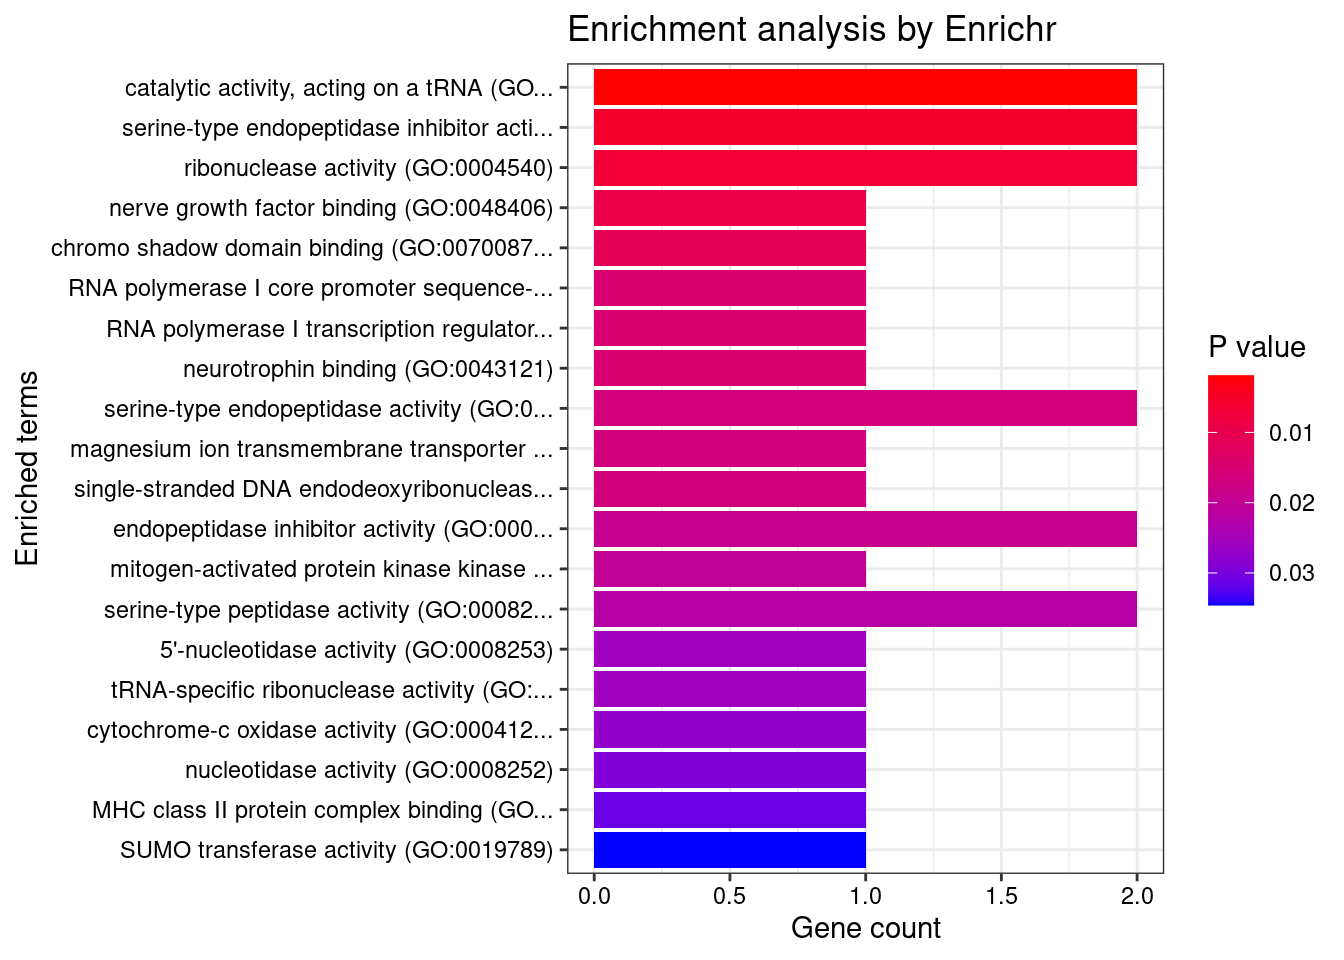
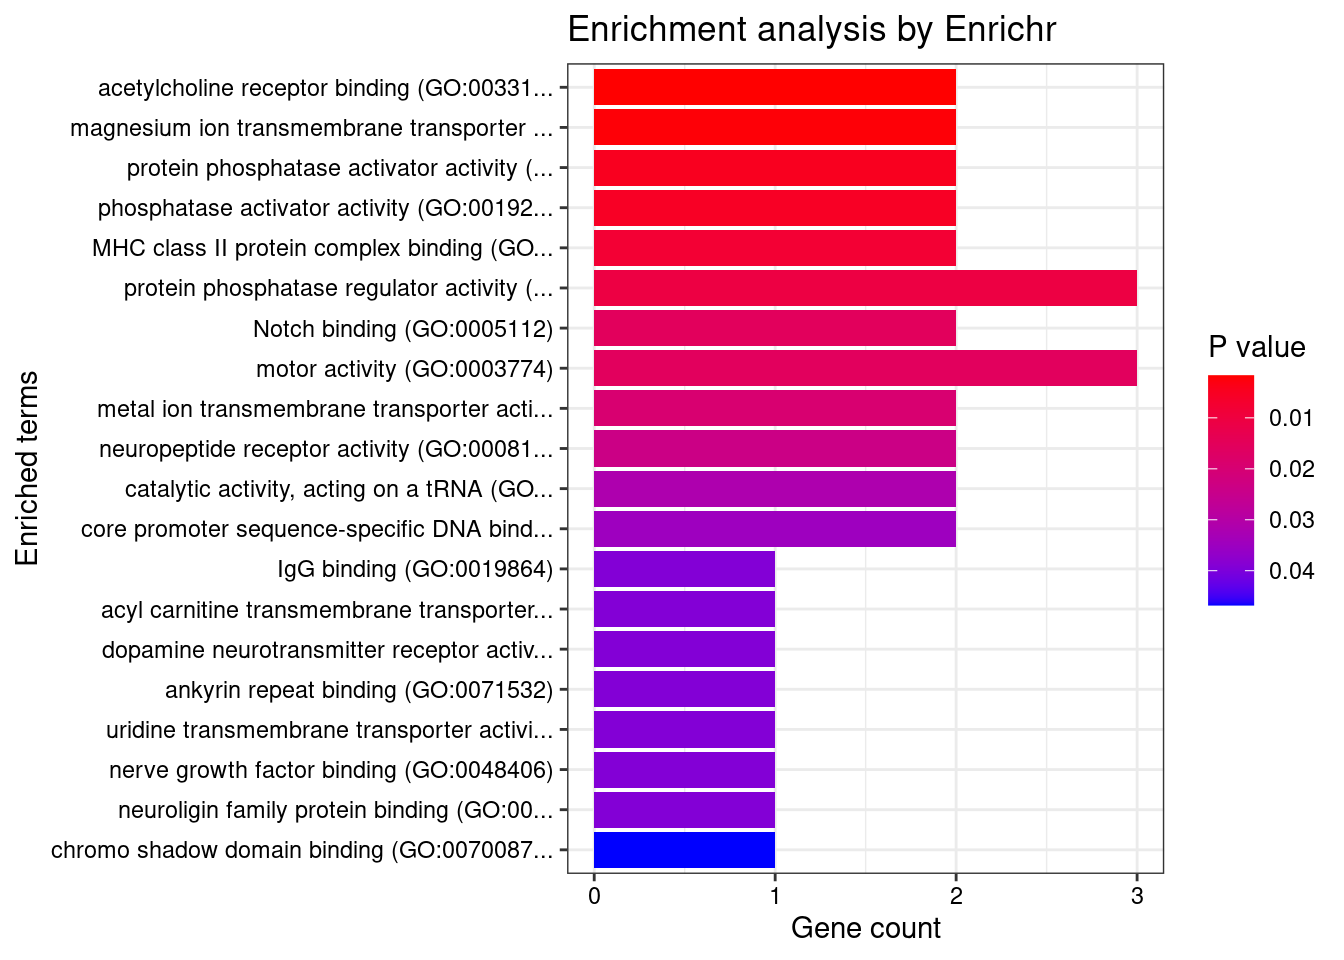
update

diff --git a/docs/SCZ_Annotation_Analysis.html b/docs/SCZ_Annotation_Analysis.html
@@ -499,16 +499,16 @@ data/SCZ_2014_EUR
 <div class="panel panel-default">
 <div class="panel-heading">
 <p class="panel-title">
-<a data-toggle="collapse" data-parent="#workflowr-checks" href="#strongRepositoryversionstrongahrefhttpsgithubcomsq96cTWASanalysistree9ddc9c43289519afecd05bdf0af20b8c7dce3423targetblank9ddc9c4a"> <span class="glyphicon glyphicon-ok text-success" aria-hidden="true"></span> <strong>Repository version:</strong> <a href="https://github.com/sq-96/cTWAS_analysis/tree/9ddc9c43289519afecd05bdf0af20b8c7dce3423" target="_blank">9ddc9c4</a> </a>
+<a data-toggle="collapse" data-parent="#workflowr-checks" href="#strongRepositoryversionstrongahrefhttpsgithubcomsq96cTWASanalysistree0552ba2bf4d6456fb9b0087f6c077c0a7cd6720dtargetblank0552ba2a"> <span class="glyphicon glyphicon-ok text-success" aria-hidden="true"></span> <strong>Repository version:</strong> <a href="https://github.com/sq-96/cTWAS_analysis/tree/0552ba2bf4d6456fb9b0087f6c077c0a7cd6720d" target="_blank">0552ba2</a> </a>
 </p>
 </div>
[2 lines of base64/hex data omitted]
 <div class="panel-body">
 <p>
 Great! You are using Git for version control. Tracking code development and connecting the code version to the results is critical for reproducibility.
 </p>
 <p>
-The results in this page were generated with repository version <a href="https://github.com/sq-96/cTWAS_analysis/tree/9ddc9c43289519afecd05bdf0af20b8c7dce3423" target="_blank">9ddc9c4</a>. See the <em>Past versions</em> tab to see a history of the changes made to the R Markdown and HTML files.
+The results in this page were generated with repository version <a href="https://github.com/sq-96/cTWAS_analysis/tree/0552ba2bf4d6456fb9b0087f6c077c0a7cd6720d" target="_blank">0552ba2</a>. See the <em>Past versions</em> tab to see a history of the changes made to the R Markdown and HTML files.
 </p>
 <p>
 Note that you need to be careful to ensure that all relevant files for the analysis have been committed to Git prior to generating the results (you can use <code>wflow_publish</code> or <code>wflow_git_commit</code>). workflowr only checks the R Markdown file, but you know if there are other scripts or data files that it depends on. Below is the status of the Git repository when the results were generated:
@@ -516,7 +516,6 @@ Note that you need to be careful to ensure that all relevant files for the analy
 <pre><code>
 Ignored files:
     Ignored:    .ipynb_checkpoints/
-    Ignored:    analysis/figure/
     Ignored:    data/AF/
 
 Untracked files:
@@ -609,7 +608,6 @@ Untracked files:
 
 Unstaged changes:
     Modified:   analysis/SCZ_Annotation_Analysis.Rmd
-    Modified:   analysis/index.Rmd
 
 </code></pre>
 <p>
@@ -648,6 +646,40 @@ Message
 </tr>
 </thead>
 <tbody>
+<tr>
+<td>
+Rmd
+</td>
+<td>
+<a href="https://github.com/sq-96/cTWAS_analysis/blob/0552ba2bf4d6456fb9b0087f6c077c0a7cd6720d/analysis/SCZ_Annotation_Analysis.Rmd" target="_blank">0552ba2</a>
+</td>
+<td>
+sq-96
+</td>
+<td>
+2022-04-18
+</td>
+<td>
+update
+</td>
+</tr>
+<tr>
+<td>
+html
+</td>
+<td>
+<a href="https://rawcdn.githack.com/sq-96/cTWAS_analysis/0552ba2bf4d6456fb9b0087f6c077c0a7cd6720d/docs/SCZ_Annotation_Analysis.html" target="_blank">0552ba2</a>
+</td>
+<td>
+sq-96
+</td>
+<td>
+2022-04-18
+</td>
+<td>
+update
+</td>
+</tr>
 <tr>
 <td>
 Rmd
@@ -695,7 +727,7 @@ all_genes &lt;- c()
 for(i in brain_tissue){
   df &lt;- readRDS(paste0(&quot;/project2/xinhe/shengqian/cTWAS/cTWAS_analysis/data/SCZ_2014_EUR/&quot;,i,&quot;/SCZ_&quot;,i,&quot;_ctwas_gene_res.RDS&quot;))
   all_genes &lt;- c(all_genes,df$genename)
-  df &lt;- df[df$susie_pip&gt;=0.8,]
+  df &lt;- df[df$susie_pip&gt;=0.5,]
   top_genes &lt;- c(top_genes,df$genename)
 }
 top_genes &lt;- unique(top_genes)
@@ -728,15 +760,15 @@ SMR_genes &lt;- Supplementary_Table_20_Prioritised_Genes[,c(&quot;Symbol.ID&quot
 SMR_genes[&quot;index&quot;] &lt;- (SMR_genes$SMRmap==1) | (SMR_genes$SMRsingleGene==1) | (SMR_genes$HI.C.SMR==1)
 SMR_genes &lt;- SMR_genes[SMR_genes$index==1,]$Symbol.ID</code></pre>
 <pre class="r"><code>sum(top_genes %in% SCHEMA_genes)</code></pre>
-<pre><code>[1] 1</code></pre>
+<pre><code>[1] 2</code></pre>
 <pre class="r"><code>sum(top_genes %in% ASD_genes)</code></pre>
-<pre><code>[1] 0</code></pre>
-<pre class="r"><code>sum(top_genes %in% DDD_genes)</code></pre>
 <pre><code>[1] 1</code></pre>
-<pre class="r"><code>sum(top_genes %in% PGC3_genes)</code></pre>
+<pre class="r"><code>sum(top_genes %in% DDD_genes)</code></pre>
 <pre><code>[1] 5</code></pre>
+<pre class="r"><code>sum(top_genes %in% PGC3_genes)</code></pre>
+<pre><code>[1] 9</code></pre>
 <pre class="r"><code>sum(top_genes %in% setdiff(PGC3_genes,SMR_genes))</code></pre>
-<pre><code>[1] 0</code></pre>
+<pre><code>[1] 1</code></pre>
 <pre class="r"><code>sum(random_genes %in% SCHEMA_genes)</code></pre>
 <pre><code>[1] 3</code></pre>
 <pre class="r"><code>sum(random_genes %in% ASD_genes)</code></pre>
@@ -752,13 +784,13 @@ SMR_genes &lt;- SMR_genes[SMR_genes$index==1,]$Symbol.ID</code></pre>
     Fisher&#39;s Exact Test for Count Data
 
 data:  
-p-value = 0.1354
+p-value = 0.1413
 alternative hypothesis: true odds ratio is not equal to 1
 95 percent confidence interval:
-   0.1711393 117.4160714
+  0.350347 37.179757
 sample estimates:
 odds ratio 
-  9.175783 </code></pre>
+  4.225739 </code></pre>
 <pre class="r"><code>fisher.test(matrix(c(sum(top_genes %in% ASD_genes),length(top_genes)-sum(top_genes %in% ASD_genes),sum(random_genes %in% ASD_genes),1000-sum(random_genes %in% ASD_genes)),ncol=2))</code></pre>
 <pre><code>
     Fisher&#39;s Exact Test for Count Data
@@ -767,46 +799,46 @@ data:
 p-value = 1
 alternative hypothesis: true odds ratio is not equal to 1
 95 percent confidence interval:
-  0.00000 19.30366
+ 0.01979746 7.06655191
 sample estimates:
 odds ratio 
-         0 </code></pre>
+  0.897886 </code></pre>
 <pre class="r"><code>fisher.test(matrix(c(sum(top_genes %in% DDD_genes),length(top_genes)-sum(top_genes %in% DDD_genes),sum(random_genes %in% DDD_genes),1000-sum(random_genes %in% DDD_genes)),ncol=2))</code></pre>
 <pre><code>
     Fisher&#39;s Exact Test for Count Data
 
 data:  
-p-value = 0.4223
+p-value = 0.1657
 alternative hypothesis: true odds ratio is not equal to 1
 95 percent confidence interval:
-  0.04503188 13.53902640
+ 0.6348484 6.8334851
 sample estimates:
 odds ratio 
-  1.954633 </code></pre>
+  2.284503 </code></pre>
 <pre class="r"><code>fisher.test(matrix(c(sum(top_genes %in% PGC3_genes),length(top_genes)-sum(top_genes %in% PGC3_genes),sum(random_genes %in% PGC3_genes),1000-sum(random_genes %in% PGC3_genes)),ncol=2))</code></pre>
 <pre><code>
     Fisher&#39;s Exact Test for Count Data
 
 data:  
-p-value = 1.739e-05
+p-value = 3.34e-05
 alternative hypothesis: true odds ratio is not equal to 1
 95 percent confidence interval:
-   5.852185 106.928166
+  3.09800 34.34657
 sample estimates:
 odds ratio 
-  25.56233 </code></pre>
+  9.904212 </code></pre>
 <pre class="r"><code>fisher.test(matrix(c(sum(top_genes %in% setdiff(PGC3_genes,SMR_genes)),length(top_genes)-sum(top_genes %in% setdiff(PGC3_genes,SMR_genes)),sum(random_genes %in% setdiff(PGC3_genes,SMR_genes)),1000-sum(random_genes %in% setdiff(PGC3_genes,SMR_genes))),ncol=2))</code></pre>
 <pre><code>
     Fisher&#39;s Exact Test for Count Data
 
 data:  
-p-value = 1
+p-value = 0.5225
 alternative hypothesis: true odds ratio is not equal to 1
 95 percent confidence interval:
-  0.0000 41.8512
+  0.03180166 16.04506772
 sample estimates:
 odds ratio 
-         0 </code></pre>
+  1.575219 </code></pre>
 <pre class="r"><code>library(enrichR)</code></pre>
 <pre><code>Welcome to enrichR
 Checking connection ... </code></pre>
@@ -835,42 +867,138 @@ if (length(top_genes)&gt;0){
 Parsing results... Done.
 [1] &quot;GO_Biological_Process_2021&quot;</code></pre>
 <p><img src="figure/SCZ_Annotation_Analysis.Rmd/unnamed-chunk-7-1.png" width="672" style="display: block; margin: auto;" /></p>
-<pre><code>                                        Term Overlap Adjusted.P.value
-1 mitochondrial tRNA processing (GO:0090646)     2/8       0.02165807
-2     signal peptide processing (GO:0006465)    2/11       0.02165807
-        Genes
-1 ELAC2;TRIT1
-2 SPCS1;FURIN
+<p>
+<button type="button" class="btn btn-default btn-xs btn-workflowr btn-workflowr-fig" data-toggle="collapse" data-target="#fig-unnamed-chunk-7-1">
+Past versions of unnamed-chunk-7-1.png
+</button>
+</p>
+<div id="fig-unnamed-chunk-7-1" class="collapse">
+<div class="table-responsive">
+<table class="table table-condensed table-hover">
+<thead>
+<tr>
+<th>
+Version
+</th>
+<th>
+Author
+</th>
+<th>
+Date
+</th>
+</tr>
+</thead>
+<tbody>
+<tr>
+<td>
+<a href="https://github.com/sq-96/cTWAS_analysis/blob/0552ba2bf4d6456fb9b0087f6c077c0a7cd6720d/docs/figure/SCZ_Annotation_Analysis.Rmd/unnamed-chunk-7-1.png" target="_blank">0552ba2</a>
+</td>
+<td>
+sq-96
+</td>
+<td>
+2022-04-18
+</td>
+</tr>
+</tbody>
+</table>
+</div>
+</div>
+<pre><code>[1] Term             Overlap          Adjusted.P.value Genes           
+&lt;0 rows&gt; (or 0-length row.names)
 [1] &quot;GO_Cellular_Component_2021&quot;</code></pre>
 <p><img src="figure/SCZ_Annotation_Analysis.Rmd/unnamed-chunk-7-2.png" width="672" style="display: block; margin: auto;" /></p>
+<p>
+<button type="button" class="btn btn-default btn-xs btn-workflowr btn-workflowr-fig" data-toggle="collapse" data-target="#fig-unnamed-chunk-7-2">
+Past versions of unnamed-chunk-7-2.png
+</button>
+</p>
+<div id="fig-unnamed-chunk-7-2" class="collapse">
+<div class="table-responsive">
+<table class="table table-condensed table-hover">
+<thead>
+<tr>
+<th>
+Version
+</th>
+<th>
+Author
+</th>
+<th>
+Date
+</th>
+</tr>
+</thead>
+<tbody>
+<tr>
+<td>
+<a href="https://github.com/sq-96/cTWAS_analysis/blob/0552ba2bf4d6456fb9b0087f6c077c0a7cd6720d/docs/figure/SCZ_Annotation_Analysis.Rmd/unnamed-chunk-7-2.png" target="_blank">0552ba2</a>
+</td>
+<td>
+sq-96
+</td>
+<td>
+2022-04-18
+</td>
+</tr>
+</tbody>
+</table>
+</div>
+</div>
 <pre><code>[1] Term             Overlap          Adjusted.P.value Genes           
 &lt;0 rows&gt; (or 0-length row.names)
 [1] &quot;GO_Molecular_Function_2021&quot;</code></pre>
 <p><img src="figure/SCZ_Annotation_Analysis.Rmd/unnamed-chunk-7-3.png" width="672" style="display: block; margin: auto;" /></p>
+<p>
+<button type="button" class="btn btn-default btn-xs btn-workflowr btn-workflowr-fig" data-toggle="collapse" data-target="#fig-unnamed-chunk-7-3">
+Past versions of unnamed-chunk-7-3.png
+</button>
+</p>
+<div id="fig-unnamed-chunk-7-3" class="collapse">
+<div class="table-responsive">
+<table class="table table-condensed table-hover">
+<thead>
+<tr>
+<th>
+Version
+</th>
+<th>
+Author
+</th>
+<th>
+Date
+</th>
+</tr>
+</thead>
+<tbody>
+<tr>
+<td>
+<a href="https://github.com/sq-96/cTWAS_analysis/blob/0552ba2bf4d6456fb9b0087f6c077c0a7cd6720d/docs/figure/SCZ_Annotation_Analysis.Rmd/unnamed-chunk-7-3.png" target="_blank">0552ba2</a>
+</td>
+<td>
+sq-96
+</td>
+<td>
+2022-04-18
+</td>
+</tr>
+</tbody>
+</table>
+</div>
+</div>
 <pre><code>[1] Term             Overlap          Adjusted.P.value Genes           
 &lt;0 rows&gt; (or 0-length row.names)</code></pre>
-<pre><code>                                                 Description        FDR Ratio
-68                                  Amaurosis hypertrichosis 0.01183261  1/14
-69 Familial encephalopathy with neuroserpin inclusion bodies 0.01183261  1/14
-72                Cone rod dystrophy amelogenesis imperfecta 0.01183261  1/14
-75                                           Jalili syndrome 0.01183261  1/14
-76                            PROSTATE CANCER, HEREDITARY, 2 0.01183261  1/14
-77                SPASTIC PARAPLEGIA 53, AUTOSOMAL RECESSIVE 0.01183261  1/14
-79          COMBINED OXIDATIVE PHOSPHORYLATION DEFICIENCY 17 0.01183261  1/14
-80                SPASTIC PARAPLEGIA 45, AUTOSOMAL RECESSIVE 0.01183261  1/14
-81  HYPOGONADOTROPIC HYPOGONADISM 22 WITH OR WITHOUT ANOSMIA 0.01183261  1/14
-82          COMBINED OXIDATIVE PHOSPHORYLATION DEFICIENCY 35 0.01183261  1/14
-   BgRatio
-68  1/9703
-69  1/9703
-72  1/9703
-75  1/9703
-76  1/9703
-77  1/9703
-79  1/9703
-80  1/9703
-81  1/9703
-82  1/9703</code></pre>
+<pre><code>                                       Description        FDR Ratio  BgRatio
+84                                         Measles 0.04999924  1/65   1/9703
+106                                  Schizophrenia 0.04999924 13/65 883/9703
+108                                   Spasmophilia 0.04999924  1/65   1/9703
+116                                    Tachycardia 0.04999924  2/65  18/9703
+117                                         Tetany 0.04999924  1/65   1/9703
+123                                Tachyarrhythmia 0.04999924  2/65  18/9703
+179                               Alstrom Syndrome 0.04999924  1/65   1/9703
+180                               Tetany, Neonatal 0.04999924  1/65   1/9703
+210 Renal dysplasia and retinal aplasia (disorder) 0.04999924  2/65  12/9703
+277                          Bardet-Biedl Syndrome 0.04999924  2/65  13/9703</code></pre>
 <br>
 <p>
 <button type="button" class="btn btn-default btn-workflowr btn-workflowr-sessioninfo" data-toggle="collapse" data-target="#workflowr-sessioninfo" style="display: block;">
